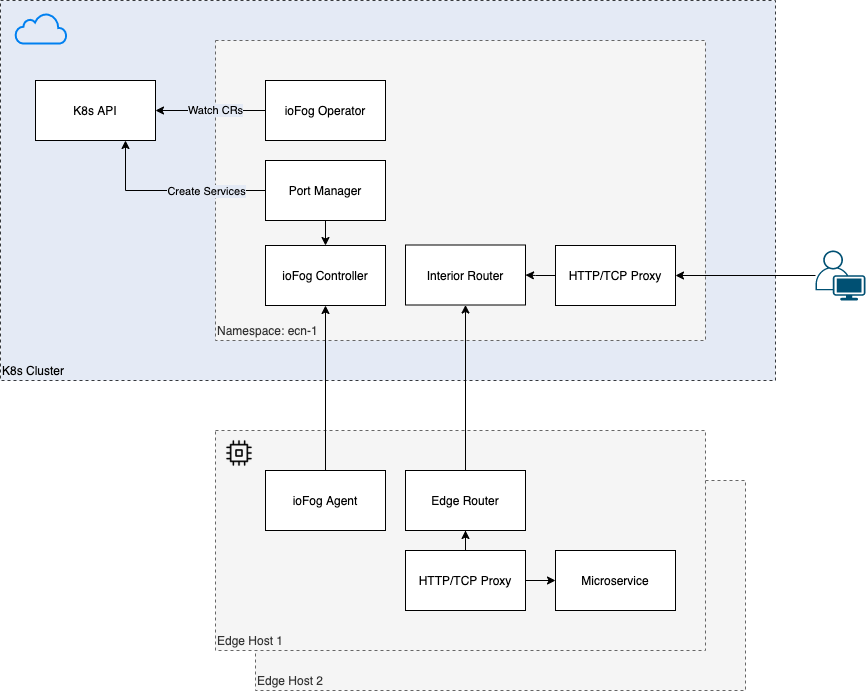
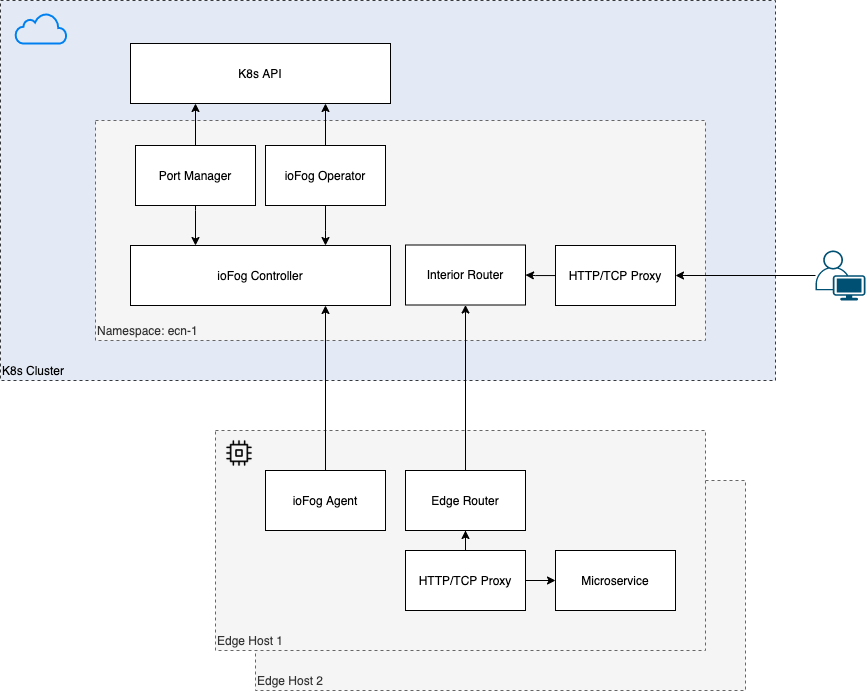
Update k8s diagram and add info on all CRs

diff --git a/architecture/k8s/README.md b/architecture/k8s/README.md
@@ -39,6 +39,7 @@ The deployment process will create the following Custom Resource Definitions:
 * Agents
 * Applications
 * Microservices
+* Public Ports
 * Routes
 * Edge Resources
 
@@ -58,25 +59,47 @@ All components of the Control Plane are deployed as Kubernetes Deployments. User
 
 Controllers and Routers have public APIs which can be exposed by `LoadBalancer` Services or `ClusterIP` services with separate `Ingress` configured.
 
+The Control Plane CR YAML specification can be found [here](https://github.com/eclipse-iofog/iofog-operator/blob/develop/config/cr/controlplane.yaml).
+
 ## Agents
 
-...
+Agents are edge hosts that are running the ioFog Agent stack. The Agent Custom Resource can be used to connect an existing Agent to the corresponding ECN or to deploy a new Agent altogether and install the ioFog stack on a remote host.
+
+When deploying a new Agent, the Operator is responsible for installing the ioFog Agent stack on a remote host via SSH. As such, users must ensure that the cluster network and the remote host network allow for the required SSH connection.
+
+The Agent CR YAML specification will be available when it is supported.
 
 ## Applications
 
-...
+Applications are a group of Microservices that can be managed together.
+
+The Application CR YAML specification will be available when it is supported.
 
 ## Microservices
 
-...
+Microservices are definitions of a container and associated resources for the purposes of orchestrating containers on the edge.
+
+The Microservice CR YAML specification will be available when it is supported.
+
+###### Public Ports
+
+Public Ports describe externally accessible endpoints for Microservices. They are facilitated by the ECN's Routers and Port Manager.
+
+Public Ports allow bi-directional traffic to Microservices at the edge without the need to create firewall rules for inbound traffic in the edge network.
+
+The Public Port CR YAML specification will be available when it is supported.
 
 ## Routes
 
-...
+Routes are a unidirectional communication channels which allow Microservices to reach each other through ioMessages.
+
+The Route CR YAML specification will be available when it is supported.
 
 ## Edge Resources
 
-...
+Edge Resources represent arbitrary, user-defined software and devices running on Agents.
+
+The Edge Resource CR YAML specification will be available when it is supported.
 
 # 4. Routers
 
